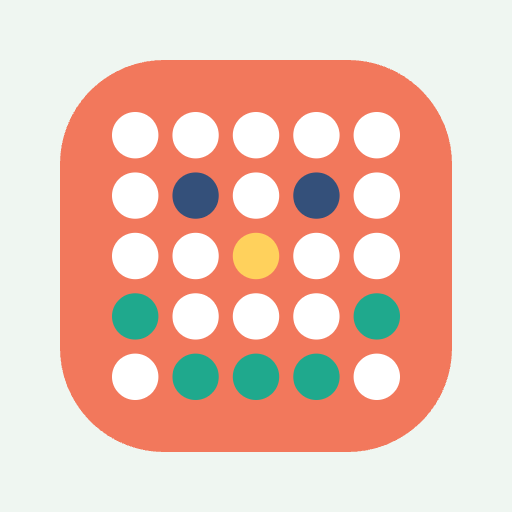
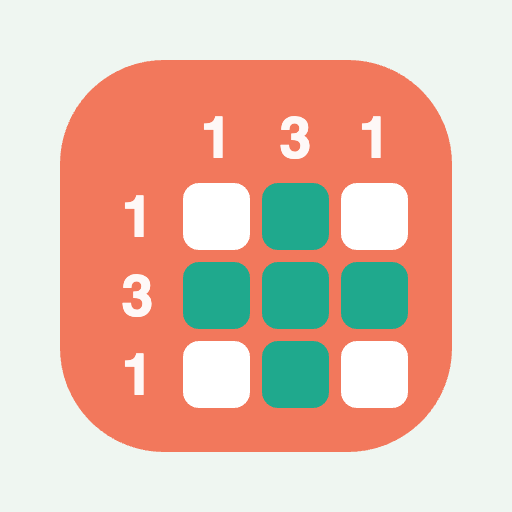
feat(landing): 낱말채집 Play 링크 · Lessi 현행 로고 · 네모로직 새 아이콘

Changed region(s): [[0.2188, 0.2188, 0.8125, 0.8125]]

diff --git a/index.html b/index.html
@@ -168,7 +168,7 @@
       <div class="grid">
 
         <article class="card">
-          <div class="logo-tile"><img src="./assets/lessi.png" alt="Lessi logo"></div>
+          <div class="logo-tile"><img src="./assets/lessi-icon.png" alt="Lessi logo"></div>
           <h3>Lessi</h3>
           <p class="desc" data-ko="필라테스·골프 등 1:1 레슨 강사와 회원을 잇는 올인원 플랫폼. 강사는 나만의 공개 페이지로 회원을 모으고, 예약·수업권·정산까지 한 곳에서 관리합니다."
              data-en="An all-in-one platform connecting 1:1 lesson instructors — pilates, golf and more — with their clients. Instructors grow with a public page and manage booking, class passes, and payouts in one place.">필라테스·골프 등 1:1 레슨 강사와 회원을 잇는 올인원 플랫폼. 강사는 나만의 공개 페이지로 회원을 모으고, 예약·수업권·정산까지 한 곳에서 관리합니다.</p>
@@ -213,7 +213,7 @@
             <p class="desc" data-ko="음절 타일을 모아 한국어 단어를 만드는 한글 단어 퍼즐. 매일 새 퍼즐과 단어 도감으로 어휘력까지 키우는 캐주얼 게임."
                data-en="A Korean word puzzle — connect syllable tiles to build words, with daily puzzles and a word almanac that grows your vocabulary.">음절 타일을 모아 한국어 단어를 만드는 한글 단어 퍼즐. 매일 새 퍼즐과 단어 도감으로 어휘력까지 키우는 캐주얼 게임.</p>
             <div class="foot">
-              <span class="pill" data-ko="Google Play 출시 예정" data-en="Coming to Google Play">Google Play 출시 예정</span>
+              <a class="link-cta" href="https://play.google.com/store/apps/details?id=com.leoworks.wordforage" target="_blank" rel="noopener" data-ko="Google Play에서 받기 ↗" data-en="Get it on Google Play ↗">Google Play에서 받기 ↗</a>
             </div>
           </article>
 